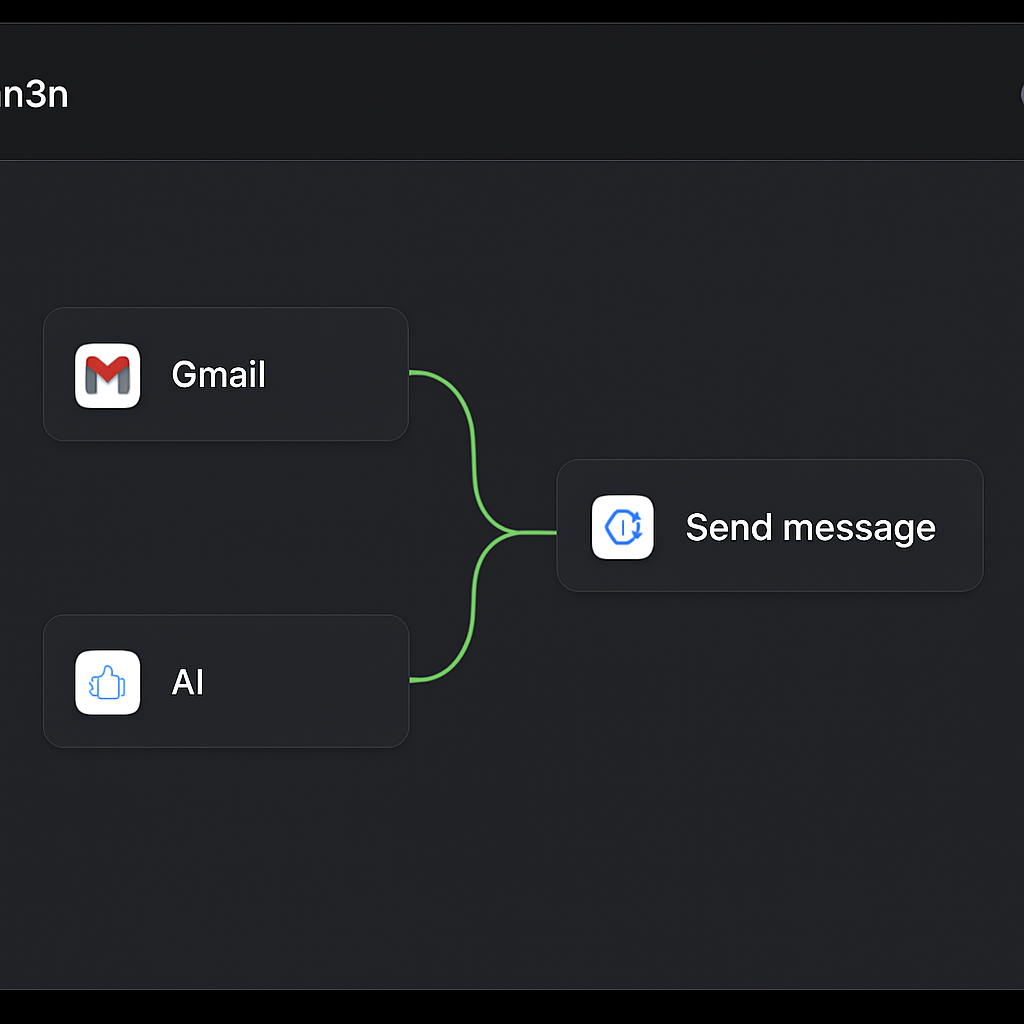
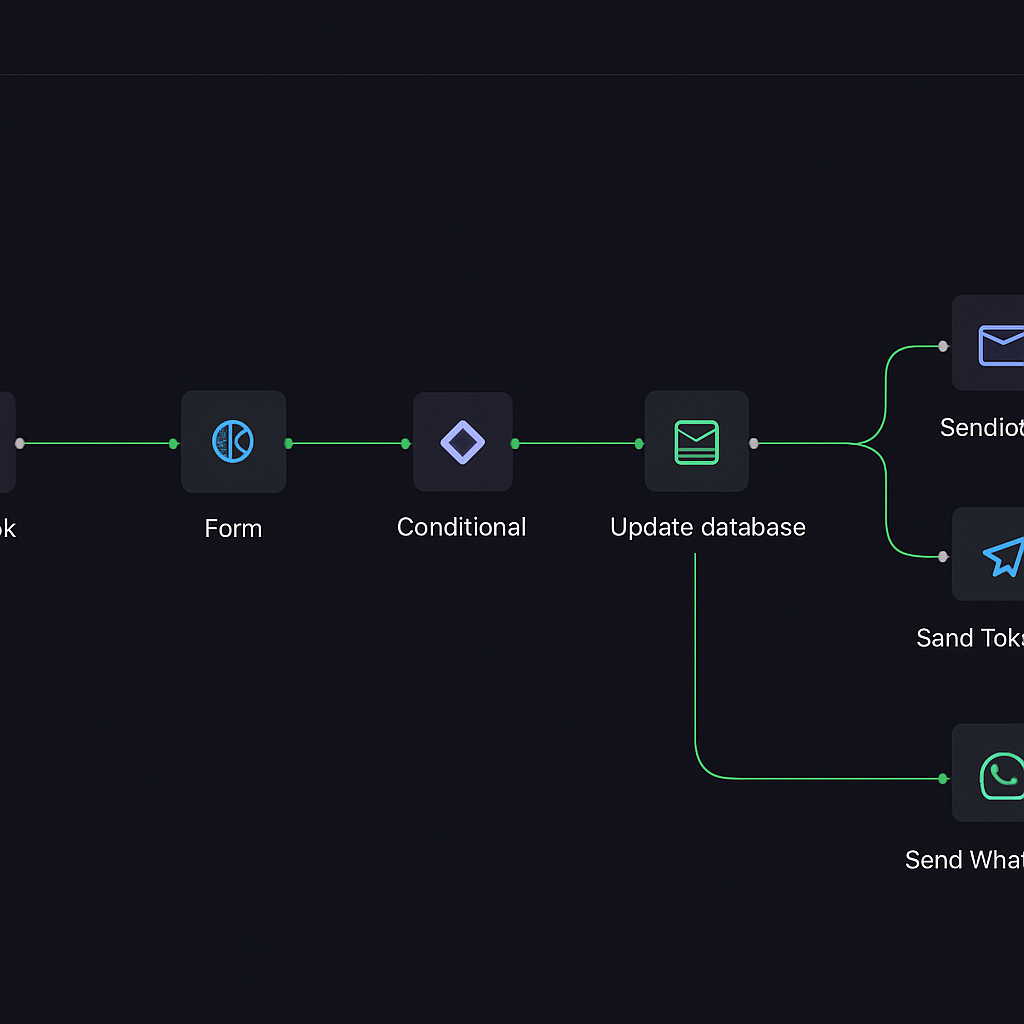
feat: introduce node shake animation and update image alt text

diff --git a/app/page.tsx b/app/page.tsx
@@ -163,63 +163,67 @@ export default function Page() {
             <div className="flex justify-center">
               <div className="relative w-full max-w-lg">
                 <style>{`
-                  @keyframes flowPulse {
-                    0% {
-                      box-shadow: inset 0 0 20px rgba(34, 197, 94, 0.3), 0 0 30px rgba(245, 158, 11, 0.2);
+                  @keyframes nodeShake {
+                    0%, 100% {
+                      transform: scale(1) translate(0, 0);
+                      filter: drop-shadow(0 0 0px rgba(34, 197, 94, 0.5));
                     }
                     50% {
-                      box-shadow: inset 0 0 40px rgba(34, 197, 94, 0.5), 0 0 50px rgba(245, 158, 11, 0.4);
-                    }
-                    100% {
-                      box-shadow: inset 0 0 20px rgba(34, 197, 94, 0.3), 0 0 30px rgba(245, 158, 11, 0.2);
+                      transform: scale(1.15) translate(2px, -2px);
+                      filter: drop-shadow(0 0 15px rgba(34, 197, 94, 0.9));
                     }
                   }
                   
-                  @keyframes nodeFlow {
+                  @keyframes pulseGlow {
                     0%, 100% {
-                      opacity: 0;
-                      transform: translateX(-100%);
+                      filter: brightness(1);
                     }
-                    25% {
-                      opacity: 1;
-                    }
-                    75% {
-                      opacity: 1;
+                    50% {
+                      filter: brightness(1.2);
                     }
                   }
                   
-                  .n8n-container {
-                    animation: flowPulse 3s ease-in-out infinite;
+                  .n8n-workflow {
+                    position: relative;
+                    animation: pulseGlow 4s ease-in-out infinite;
                   }
                   
-                  .flow-indicator {
+                  .node-animation {
                     position: absolute;
-                    width: 8px;
-                    height: 8px;
-                    background: radial-gradient(circle, #22c55e 0%, rgba(34, 197, 94, 0.5) 100%);
-                    border-radius: 50%;
-                    animation: nodeFlow 2s ease-in-out infinite;
-                    box-shadow: 0 0 10px rgba(34, 197, 94, 0.8);
+                    width: 40px;
+                    height: 40px;
+                    border-radius: 8px;
+                    background: rgba(34, 197, 94, 0.8);
+                    border: 2px solid #22c55e;
+                    animation: nodeShake 0.6s ease-in-out;
                   }
                   
-                  .flow-1 { top: 25%; left: 10%; animation-delay: 0s; }
-                  .flow-2 { top: 45%; left: 35%; animation-delay: 0.5s; }
-                  .flow-3 { top: 35%; left: 60%; animation-delay: 1s; }
-                  .flow-4 { top: 55%; left: 80%; animation-delay: 1.5s; }
+                  .node-1 { top: 15%; left: 8%; animation-delay: 0s; }
+                  .node-2 { top: 35%; left: 22%; animation-delay: 0.7s; }
+                  .node-3 { top: 25%; left: 36%; animation-delay: 1.4s; }
+                  .node-4 { top: 50%; left: 48%; animation-delay: 2.1s; }
+                  .node-5 { top: 20%; left: 60%; animation-delay: 2.8s; }
+                  .node-6 { top: 55%; left: 72%; animation-delay: 3.5s; }
+                  .node-7 { top: 35%; left: 82%; animation-delay: 4.2s; }
+                  .node-8 { top: 60%; left: 88%; animation-delay: 4.9s; }
                 `}</style>
-                <div className="n8n-container relative">
+                <div className="n8n-workflow relative">
                   <Image
                     src="/n8n-mockup.png"
-                    alt="n8n Workflow Automation Interface"
+                    alt="n8n Workflow Automation with Multiple Nodes"
                     width={600}
                     height={400}
                     className="w-full h-auto rounded-lg shadow-lg border border-slate-200"
                     priority
                   />
-                  <div className="flow-indicator flow-1" />
-                  <div className="flow-indicator flow-2" />
-                  <div className="flow-indicator flow-3" />
-                  <div className="flow-indicator flow-4" />
+                  <div className="node-animation node-1" />
+                  <div className="node-animation node-2" />
+                  <div className="node-animation node-3" />
+                  <div className="node-animation node-4" />
+                  <div className="node-animation node-5" />
+                  <div className="node-animation node-6" />
+                  <div className="node-animation node-7" />
+                  <div className="node-animation node-8" />
                 </div>
               </div>
             </div>